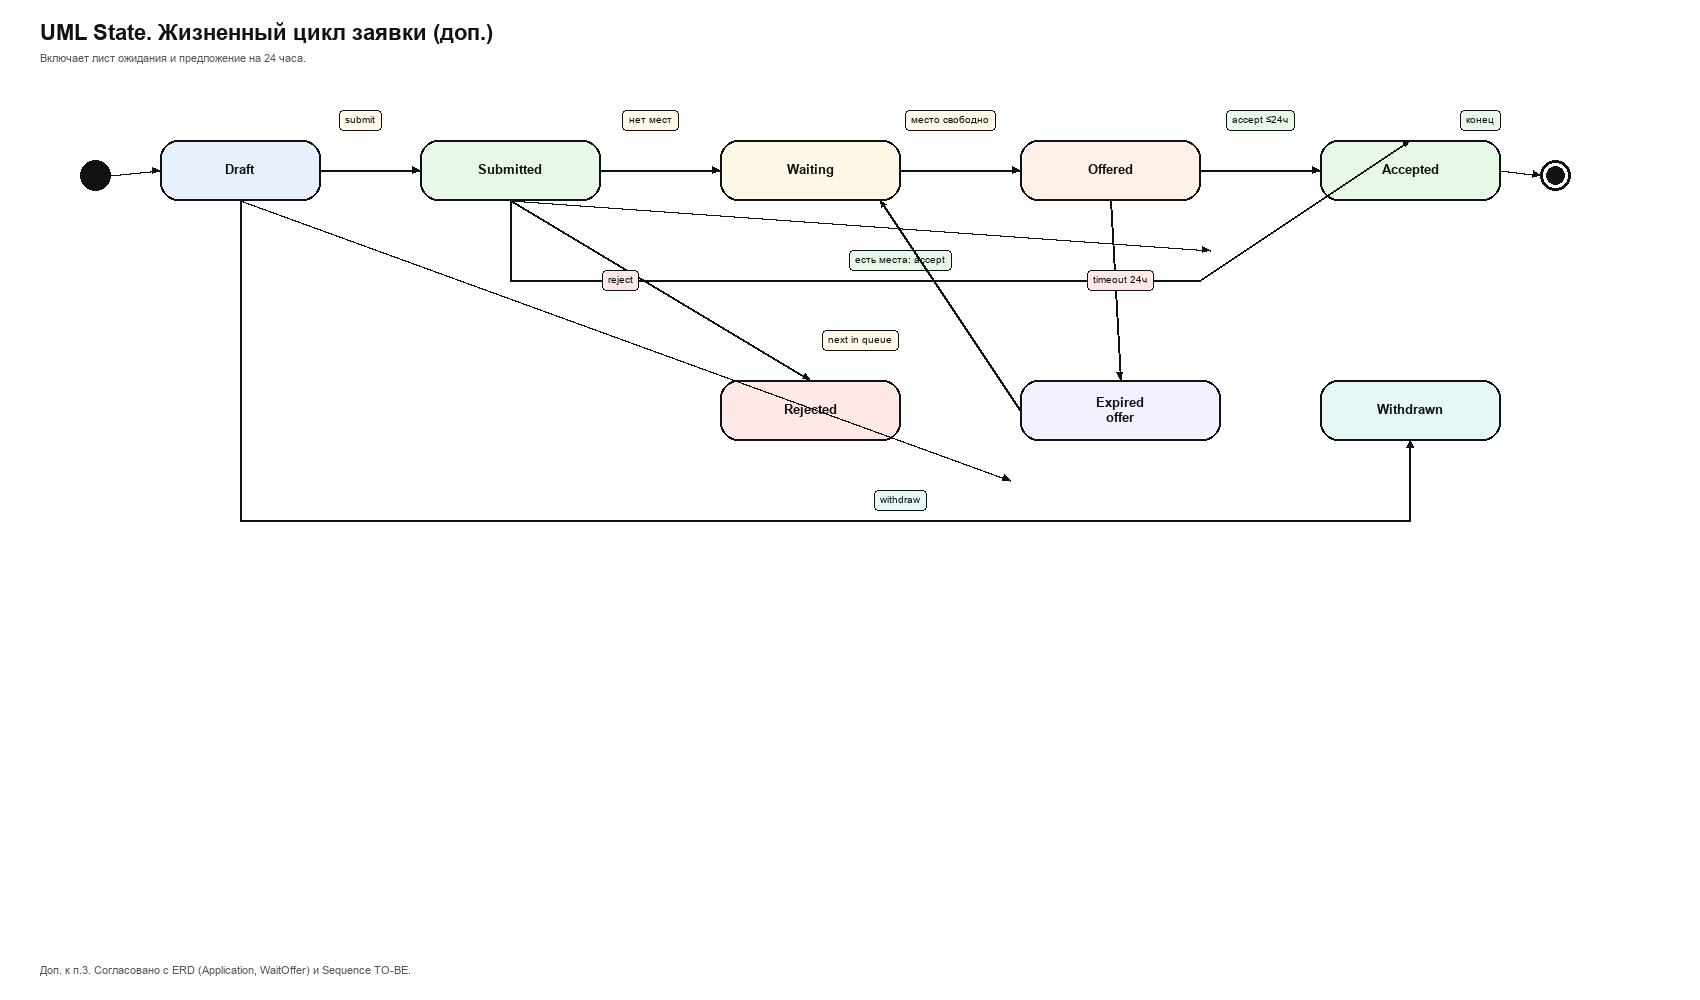
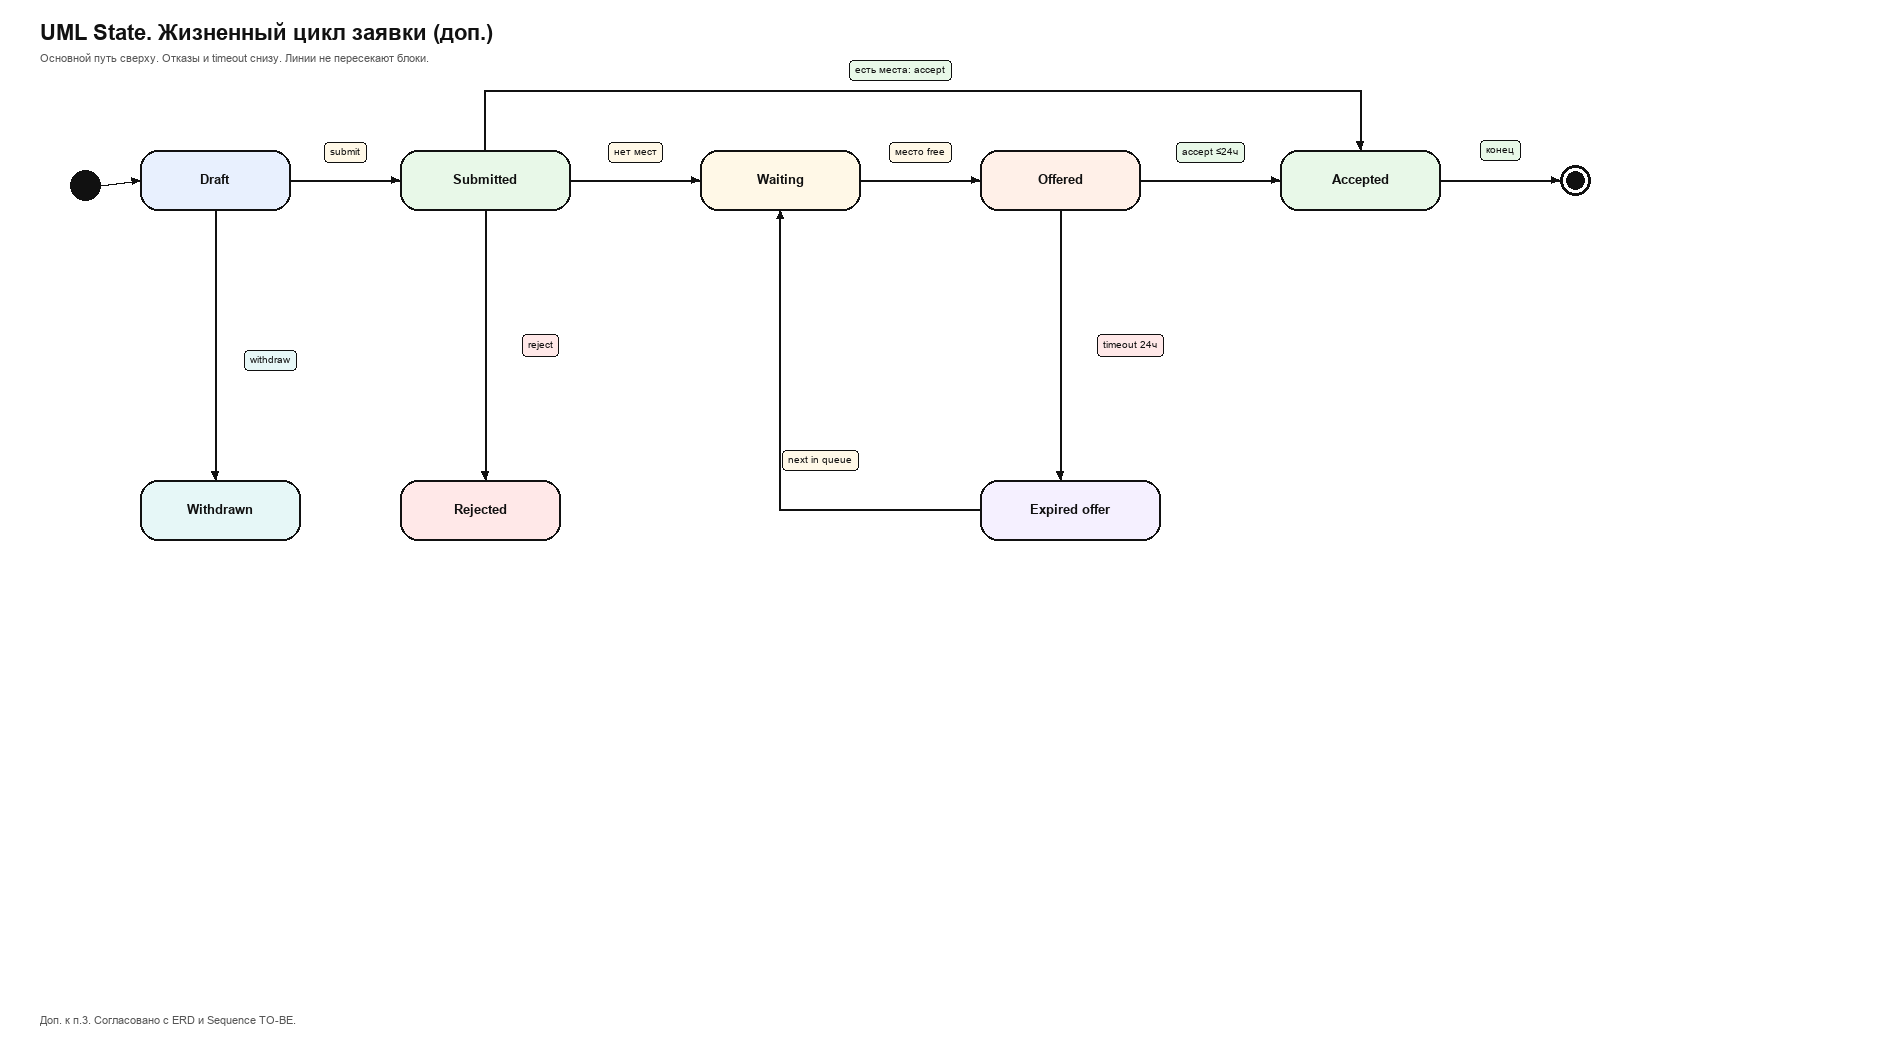
Clean lab 4 diagrams for readable orthogonal layout

diff --git a/03_opisanie_is_notacii/README.md b/03_opisanie_is_notacii/README.md
@@ -44,6 +44,8 @@
 - `<<extend>>` от подачи заявки к листу ожидания при условии «нет мест»;
 - `<<include>>` уведомления при работе с очередью и статусами.
 
+Чтобы диаграмма читалась без пересечений, короткие стрелки идут от актёров к ближайшим овалам, а полный перечень ассоциаций вынесен в таблицу под рисунком.
+
 Диаграмма опирается на функциональные требования Must из задания 2 и согласована с IDEF0 TO-BE из задания 3.
 
 ---
@@ -53,12 +55,12 @@
 ![ERD](./images/02_erd.png)
 
 **Краткое описание диаграммы.**  
-Центр модели: `Event`, `Application`, `Team`, `Task`, `Submission`, `Score`, `PortfolioItem`.  
+Сущности разложены по колонкам: пользователь и заявки, мероприятие и команды, задачи и оценки, критерии.  
 Пользователь (`User`) связан с заявками, членством в команде, уведомлениями и портфолио.  
 Для ограниченной вместимости добавлены поля очереди у заявки и сущность `WaitOffer` (предложение места на 24 часа).  
 Оценка жюри хранится как `Score` по критериям `Criterion` для сдачи `Submission`.
 
-Кардинальности типичные: одно мероприятие, много заявок и команд; одна команда, много задач и один актуальный результат сдачи; одна сдача, много оценок по критериям.
+На рисунке вертикальные связи внутри колонок. Межколоночные связи подписаны рядом с блоками и продублированы в легенде справа, чтобы линии не пересекали сущности.
 
 Статусы заявки: `draft`, `submitted`, `waiting`, `offered`, `accepted`, `rejected`.
 
